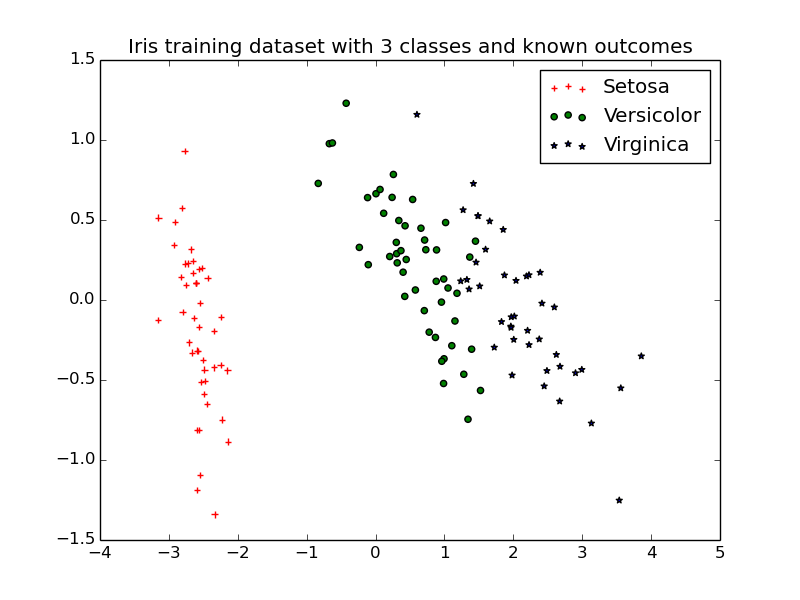
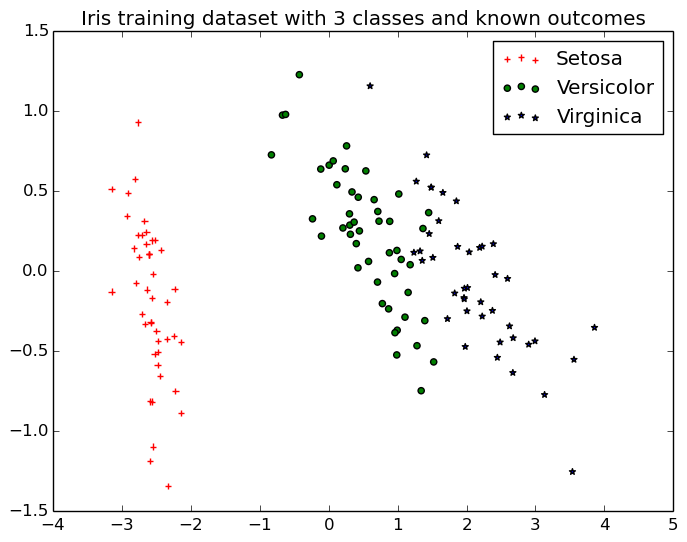
3rd

diff --git a/scatterplot.py b/scatterplot.py
@@ -29,5 +29,5 @@ for i in range(0, pca_2d.shape[0]):
 pl.legend([c1,c2,c3], ['Setosa', 'Versicolor', 'Virginica']) 
 pl.title("Iris training dataset with 3 classes and known outcomes") 
 #pl.show() 
-pl.savefig('plot.png')
+pl.savefig('plot.png', bbox_inches='tight')
 
